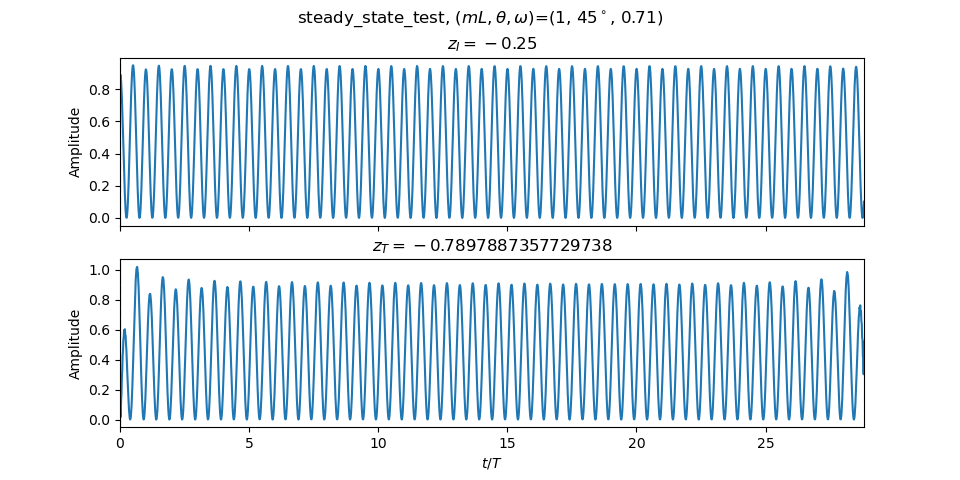
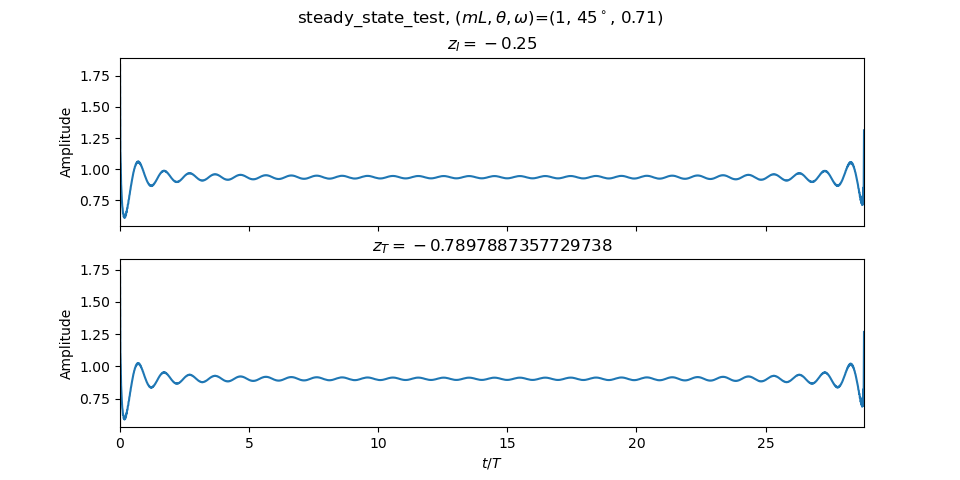
Complex_Demodulate now returns complex valued fields

Changed region(s): [[0.0625, 0.125, 0.9062, 0.4688], [0.0625, 0.5312, 0.9062, 0.9062]]

diff --git a/steady_state_test.py b/steady_state_test.py
@@ -182,19 +182,13 @@ def Complex_Demodulate(t_then_z, t, z, kz, data, dt, omega):
         ## Step 1
         ift_t_y = FT_in_time(t, z, data, dt, omega)[0]
         ## Step 2
-        ift_z_y_p, ift_z_y_n = FT_in_space(t, kz, ift_t_y)
-        # Get up and down fields as F = |mag_f| * exp(i*phi_f)
-        up_field = ift_z_y_p.real * np.exp(np.real(1j * ift_z_y_p.imag))
-        dn_field = ift_z_y_n.real * np.exp(np.real(1j * ift_z_y_n.imag))
+        up_field, dn_field = FT_in_space(t, kz, ift_t_y)
     else:
         ## Step 1
         ift_z_y_p, ift_z_y_n = FT_in_space(t, kz, data)
         ## Step 2
-        up_f = FT_in_time(t, z, ift_z_y_p, dt, omega)[0]
-        dn_f = FT_in_time(t, z, ift_z_y_n, dt, omega)[0]
-        # Get up and down fields as F = |mag_f| * exp(i*phi_f)
-        up_field = up_f.real * np.exp(np.real(1j * up_f.imag))
-        dn_field = dn_f.real * np.exp(np.real(1j * dn_f.imag))
+        up_field = FT_in_time(t, z, ift_z_y_p, dt, omega)[0]
+        dn_field = FT_in_time(t, z, ift_z_y_n, dt, omega)[0]
     return up_field, dn_field
 
 t_then_z = True
@@ -221,7 +215,7 @@ print("Transmission coefficient is:", big_T)
 
 plot_up     = up_field #up_field
 plot_dn     = dn_field #dn_field
-plot_psi    = (psi) - psi_hat.real # psi.real
+plot_psi    = (psi) #- psi_hat.real # psi.real
 
 ###############################################################################
 # Plotting and stuff
@@ -240,7 +234,7 @@ if sbp.plot_amplitude:
     hf.plot_A_of_I_T(z, t, T, plot_dn, z_I, z_T, dz, mL, theta, omega, title_str=run_name, filename='ss_1D_A_of_I_T.png')
 
 if sbp.plot_amplitude:
-    hf.plot_AA_for_z(BP_array, plot_dn, z, mL, theta, omega, T_skip=None, T=T, t=t, z0_dis=z0_dis, zf_dis=zf_dis, z_I=z_I, z_T=z_T, title_str=run_name, filename='ss_1D_AA_for_z.png')
+    hf.plot_AA_for_z(BP_array, hf.AAcc(plot_dn), z, mL, theta, omega, T_skip=None, T=T, t=t, z0_dis=z0_dis, zf_dis=zf_dis, z_I=z_I, z_T=z_T, title_str=run_name, filename='ss_1D_AA_for_z.png')
 
 if sbp.plot_up_dn:
     hf.plot_z_vs_t(z, t, T, plot_up.real, BP_array, mL, theta, omega, z0_dis=z0_dis, zf_dis=zf_dis,  plot_full_domain=False, nT=None, title_str=run_name+' up', filename='ss_1D_up_field.png')

diff --git a/helper_functions.py b/helper_functions.py
@@ -45,9 +45,15 @@ def find_nearest_index(array, value):
     else:
         return idx-1
 
+def AAcc(data):
+    """
+    Returns the data multiplied by the complex conjugate of the data
+    """
+    return data * np.conj(data)
+
 def max_amp_at_z(data, T_skip=None, T=None, t=None):
     """
-    data        1D array of wave field for certain z, complex valued
+    data        1D array of wave field for certain z, AAcc
     T_skip      oscillation periods to skip before measuring
     T           oscillation period in seconds
     t           array of time values
@@ -56,9 +62,9 @@ def max_amp_at_z(data, T_skip=None, T=None, t=None):
         # find index of time after skip interval
         idt   = find_nearest_index(t, T_skip*T)
         arr_A = data[idt:]
-        max_amp = max(arr_A * np.conj(arr_A))
+        max_amp = max(arr_A)
     else:
-        max_amp = max(data * np.conj(data))
+        max_amp = max(data)
     # Multiply element wise by the complex conjugate, find maximum
     return max_amp
 
@@ -355,7 +361,7 @@ def plot_AA_for_z(BP_array, dn_array, z, mL, theta, omega, T_skip=None, T=None, 
     Plots the max of the wave field times its complex conjugate for all depths
 
     BP_array    array of background profile in N_0
-    dn_array    downward psi wavefield, complex valued
+    dn_array    downward psi wavefield, AAcc
     z           array of z values
     mL          Non-dimensional number relating wavelength and layer thickness
     theta       Angle at which wave is incident on stratification structure
